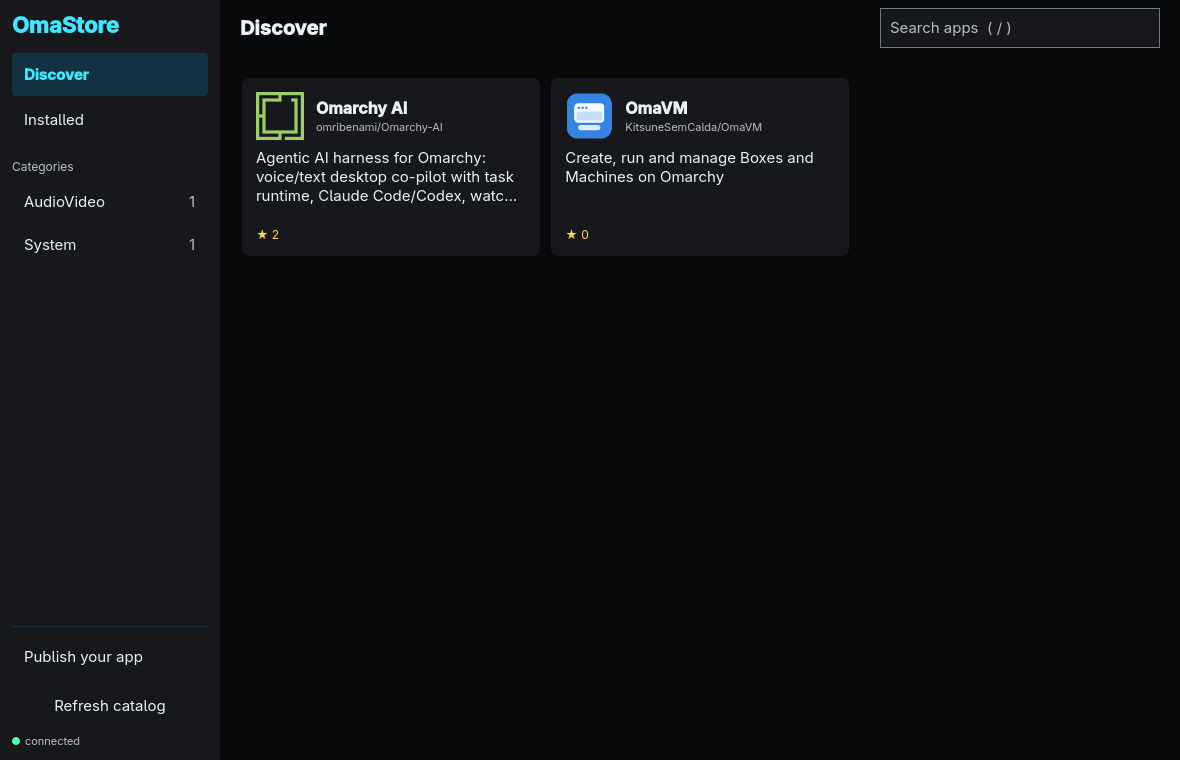
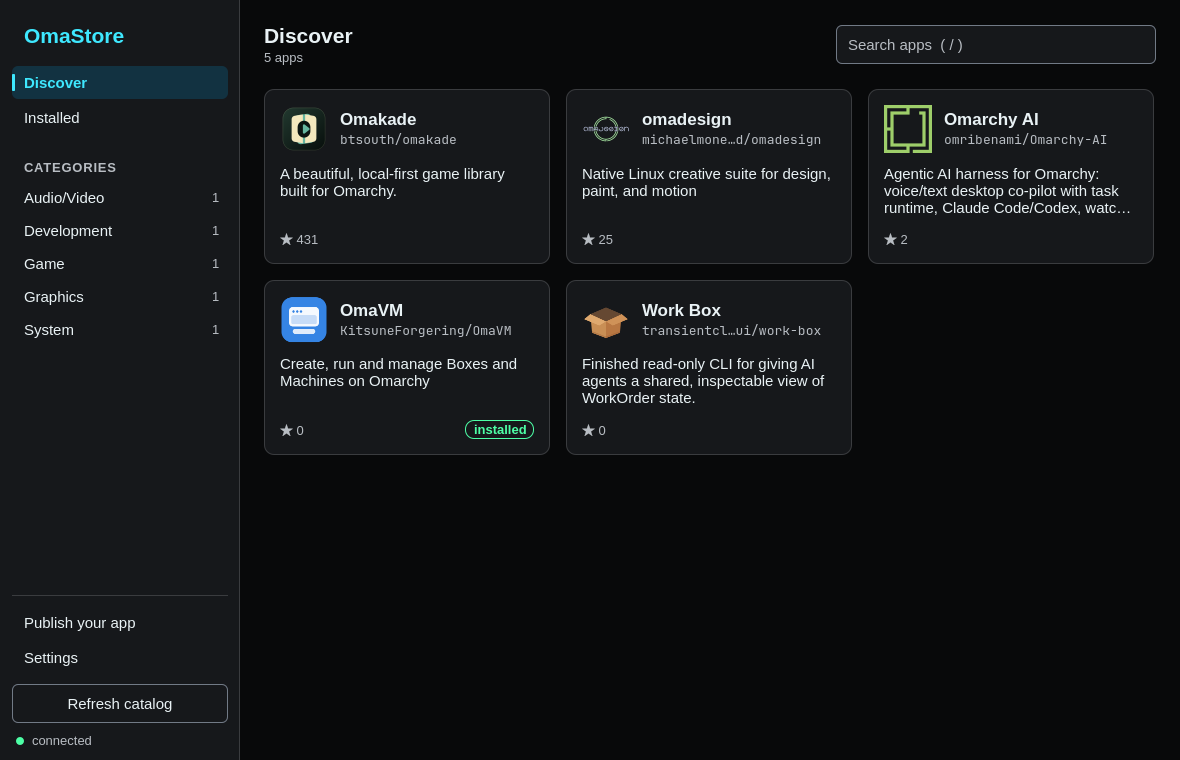
Fix header and gallery layout, English plurals and per-arch checksum files
The Installed header column takes the free room so the search stays on
screen; the gallery buttons keep their width; omastore_en.ts carries the
English plural forms (CMake globs the .ts files on every configure);
SHA256SUMS-<arch> is a checksum, not a binary (index.Version 14). New
screenshots taken from this build against an isolated catalog.

diff --git a/frontend/i18n/omastore_en.ts b/frontend/i18n/omastore_en.ts
@@ -1,0 +1,65 @@
+<?xml version="1.0" encoding="utf-8"?>
+<!DOCTYPE TS>
+<TS version="2.1" language="en" sourcelanguage="en">
+<context>
+    <name>AppCard</name>
+    <message numerus="yes">
+        <source>%n star(s)</source>
+        <translation>
+            <numerusform>%n star</numerusform>
+            <numerusform>%n stars</numerusform>
+        </translation>
+    </message>
+</context>
+<context>
+    <name>CatalogPage</name>
+    <message numerus="yes">
+        <source>%n+ result(s)</source>
+        <translation>
+            <numerusform>%n+ result</numerusform>
+            <numerusform>%n+ results</numerusform>
+        </translation>
+    </message>
+    <message numerus="yes">
+        <source>%n+ app(s)</source>
+        <translation>
+            <numerusform>%n+ app</numerusform>
+            <numerusform>%n+ apps</numerusform>
+        </translation>
+    </message>
+    <message numerus="yes">
+        <source>%n result(s)</source>
+        <translation>
+            <numerusform>%n result</numerusform>
+            <numerusform>%n results</numerusform>
+        </translation>
+    </message>
+    <message numerus="yes">
+        <source>%n app(s)</source>
+        <translation>
+            <numerusform>%n app</numerusform>
+            <numerusform>%n apps</numerusform>
+        </translation>
+    </message>
+</context>
+<context>
+    <name>DetailPage</name>
+    <message numerus="yes">
+        <source>Star on GitHub, %n star(s)</source>
+        <translation>
+            <numerusform>Star on GitHub, %n star</numerusform>
+            <numerusform>Star on GitHub, %n stars</numerusform>
+        </translation>
+    </message>
+</context>
+<context>
+    <name>SideBar</name>
+    <message numerus="yes">
+        <source>%n update(s)</source>
+        <translation>
+            <numerusform>%n update</numerusform>
+            <numerusform>%n updates</numerusform>
+        </translation>
+    </message>
+</context>
+</TS>

diff --git a/frontend/qml/DetailPage.qml b/frontend/qml/DetailPage.qml
@@ -450,8 +450,6 @@ Page {
                         spacing: theme.spaceS
                         ActionButton {
                             objectName: "previewPrevious"
-                            Layout.fillWidth: true
-                            Layout.maximumWidth: implicitWidth
                             Layout.minimumWidth: leftPadding + rightPadding + theme.fontBody * 2
                             text: qsTr("‹ Previous")
                             enabled: previewCarousel.currentIndex > 0
@@ -466,8 +464,6 @@ Page {
                         }
                         ActionButton {
                             objectName: "previewPlayPause"
-                            Layout.fillWidth: true
-                            Layout.maximumWidth: implicitWidth
                             Layout.minimumWidth: leftPadding + rightPadding + theme.fontBody * 2
                             kind: "quiet"
                             visible: previewCarousel.count > 1
@@ -478,8 +474,6 @@ Page {
                         Item { Layout.fillWidth: true }
                         ActionButton {
                             objectName: "previewNext"
-                            Layout.fillWidth: true
-                            Layout.maximumWidth: implicitWidth
                             Layout.minimumWidth: leftPadding + rightPadding + theme.fontBody * 2
                             text: qsTr("Next ›")
                             enabled: previewCarousel.currentIndex < previewCarousel.count - 1

diff --git a/frontend/qml/CatalogPage.qml b/frontend/qml/CatalogPage.qml
@@ -34,10 +34,15 @@ Page {
             anchors.fill: parent
             spacing: theme.spaceM
 
+            // Takes the room the actions leave; the hint wraps inside it.
             ColumnLayout {
+                Layout.fillWidth: true
+                Layout.preferredWidth: 0
                 spacing: 2
                 Text {
                     objectName: "catalogTitle"
+                    Layout.fillWidth: true // lets the column take the free room
+                    elide: Text.ElideRight
                     text: page.installedView ? qsTr("Installed")
                                              : (page.model.category !== "" ? Categories.display(page.model.category) : qsTr("Discover"))
                     color: theme.foreground
@@ -63,10 +68,9 @@ Page {
                     color: theme.muted
                     font.pixelSize: theme.fontCaption
                     wrapMode: Text.Wrap
-                    Layout.maximumWidth: page.width * 0.4
+                    Layout.fillWidth: true
                 }
             }
-            Item { Layout.fillWidth: true }
             ActionButton {
                 objectName: "autoUpdateButton"
                 visible: page.installedView && backend.settingsAvailable

diff --git a/backend/internal/asset/asset.go b/backend/internal/asset/asset.go
@@ -46,7 +46,9 @@ var (
 	// Source tarballs and the like.
 	reSource = regexp.MustCompile(`(?i)(^|[^a-z0-9])(source|sources|src|recipe|vendor|debug|dbgsym|headers|devel)([^a-z0-9]|$)`)
 	// Checksums published with the release.
-	reChecksum = regexp.MustCompile(`(?i)(\.(sha256|sha512|sha256sum|sha512sum|md5)$|^(sha256sums|sha512sums|checksums?)(\.txt)?$|checksums?\.txt$)`)
+	// Signatures of a checksum file (checksums.txt.sig) are not sums.
+	reSignature = regexp.MustCompile(`\.(sig|asc|minisig|pem|crt|cert|bundle|sigstore(\.json)?)$`)
+	reChecksum  = regexp.MustCompile(`(?i)(\.(sha256|sha512|sha256sum|sha512sum|md5)$|^(sha256sums|sha512sums|checksums?)([-_.][a-z0-9_]+)*?(\.txt)?$|checksums?\.txt$)`)
 )
 
 // File extensions that are never installable.
@@ -67,7 +69,7 @@ var scriptExt = []string{".sh", ".bash", ".ps1", ".bat", ".cmd", ".py"}
 // Classify identifies an asset's format and architecture from its name.
 func Classify(name string) Info {
 	lower := strings.ToLower(name)
-	if reChecksum.MatchString(lower) {
+	if reChecksum.MatchString(lower) && !reSignature.MatchString(lower) {
 		return Info{Checksum: true}
 	}
 	var info Info

diff --git a/backend/internal/asset/asset_test.go b/backend/internal/asset/asset_test.go
@@ -12,6 +12,10 @@ func TestClassifyAsset(t *testing.T) {
 		{"omadesign-0.6.0-x86_64-unknown-linux-gnu.tar.gz.sha256", Info{Checksum: true}},
 		{"checksums.txt", Info{Checksum: true}},
 		{"SHA256SUMS", Info{Checksum: true}},
+		// Per-architecture sums (Omakade): not a binary for that architecture.
+		{"SHA256SUMS-x86_64", Info{Checksum: true}},
+		{"SHA256SUMS-aarch64", Info{Checksum: true}},
+		{"checksums-linux.txt", Info{Checksum: true}},
 		{"checksums.txt.sig", Info{}},
 		{"rawmakase-0.1.5-1-x86_64.pkg.tar.zst", Info{Format: FormatPkg, Arch: ArchAMD64}},
 		{"rawmakase-0.1.5-1.x86_64.rpm", Info{}},

diff --git a/backend/internal/index/index.go b/backend/internal/index/index.go
@@ -33,7 +33,7 @@ import (
 // changelog...):
 // repositories stored with a lower version are reprocessed even without changes
 // on GitHub.
-const Version = 13
+const Version = 14
 
 // GitHub is the subset of the client used by the indexer.
 type GitHub interface {

diff --git a/CHANGELOG.md b/CHANGELOG.md
@@ -11,6 +11,12 @@ All notable changes to OmaStore are listed here. The format follows
 - Installing an app's system dependencies works with the socket-activated
   daemon: `omastored.service` no longer sets `NoNewPrivileges`, which made the
   setuid `pkexec` refuse to run.
+- Per-architecture checksum files (`SHA256SUMS-x86_64`) are read as checksums,
+  not listed as binaries for that architecture.
+- The Installed page header keeps the search field on screen next to the
+  automatic-updates switch, and the gallery buttons are no longer cut off.
+- English counts read “1 app” and “5 apps” instead of “app(s)”.
+- New screenshots of the catalog and an app page.
 
 ## [0.4.0] - 2026-10-06
 
